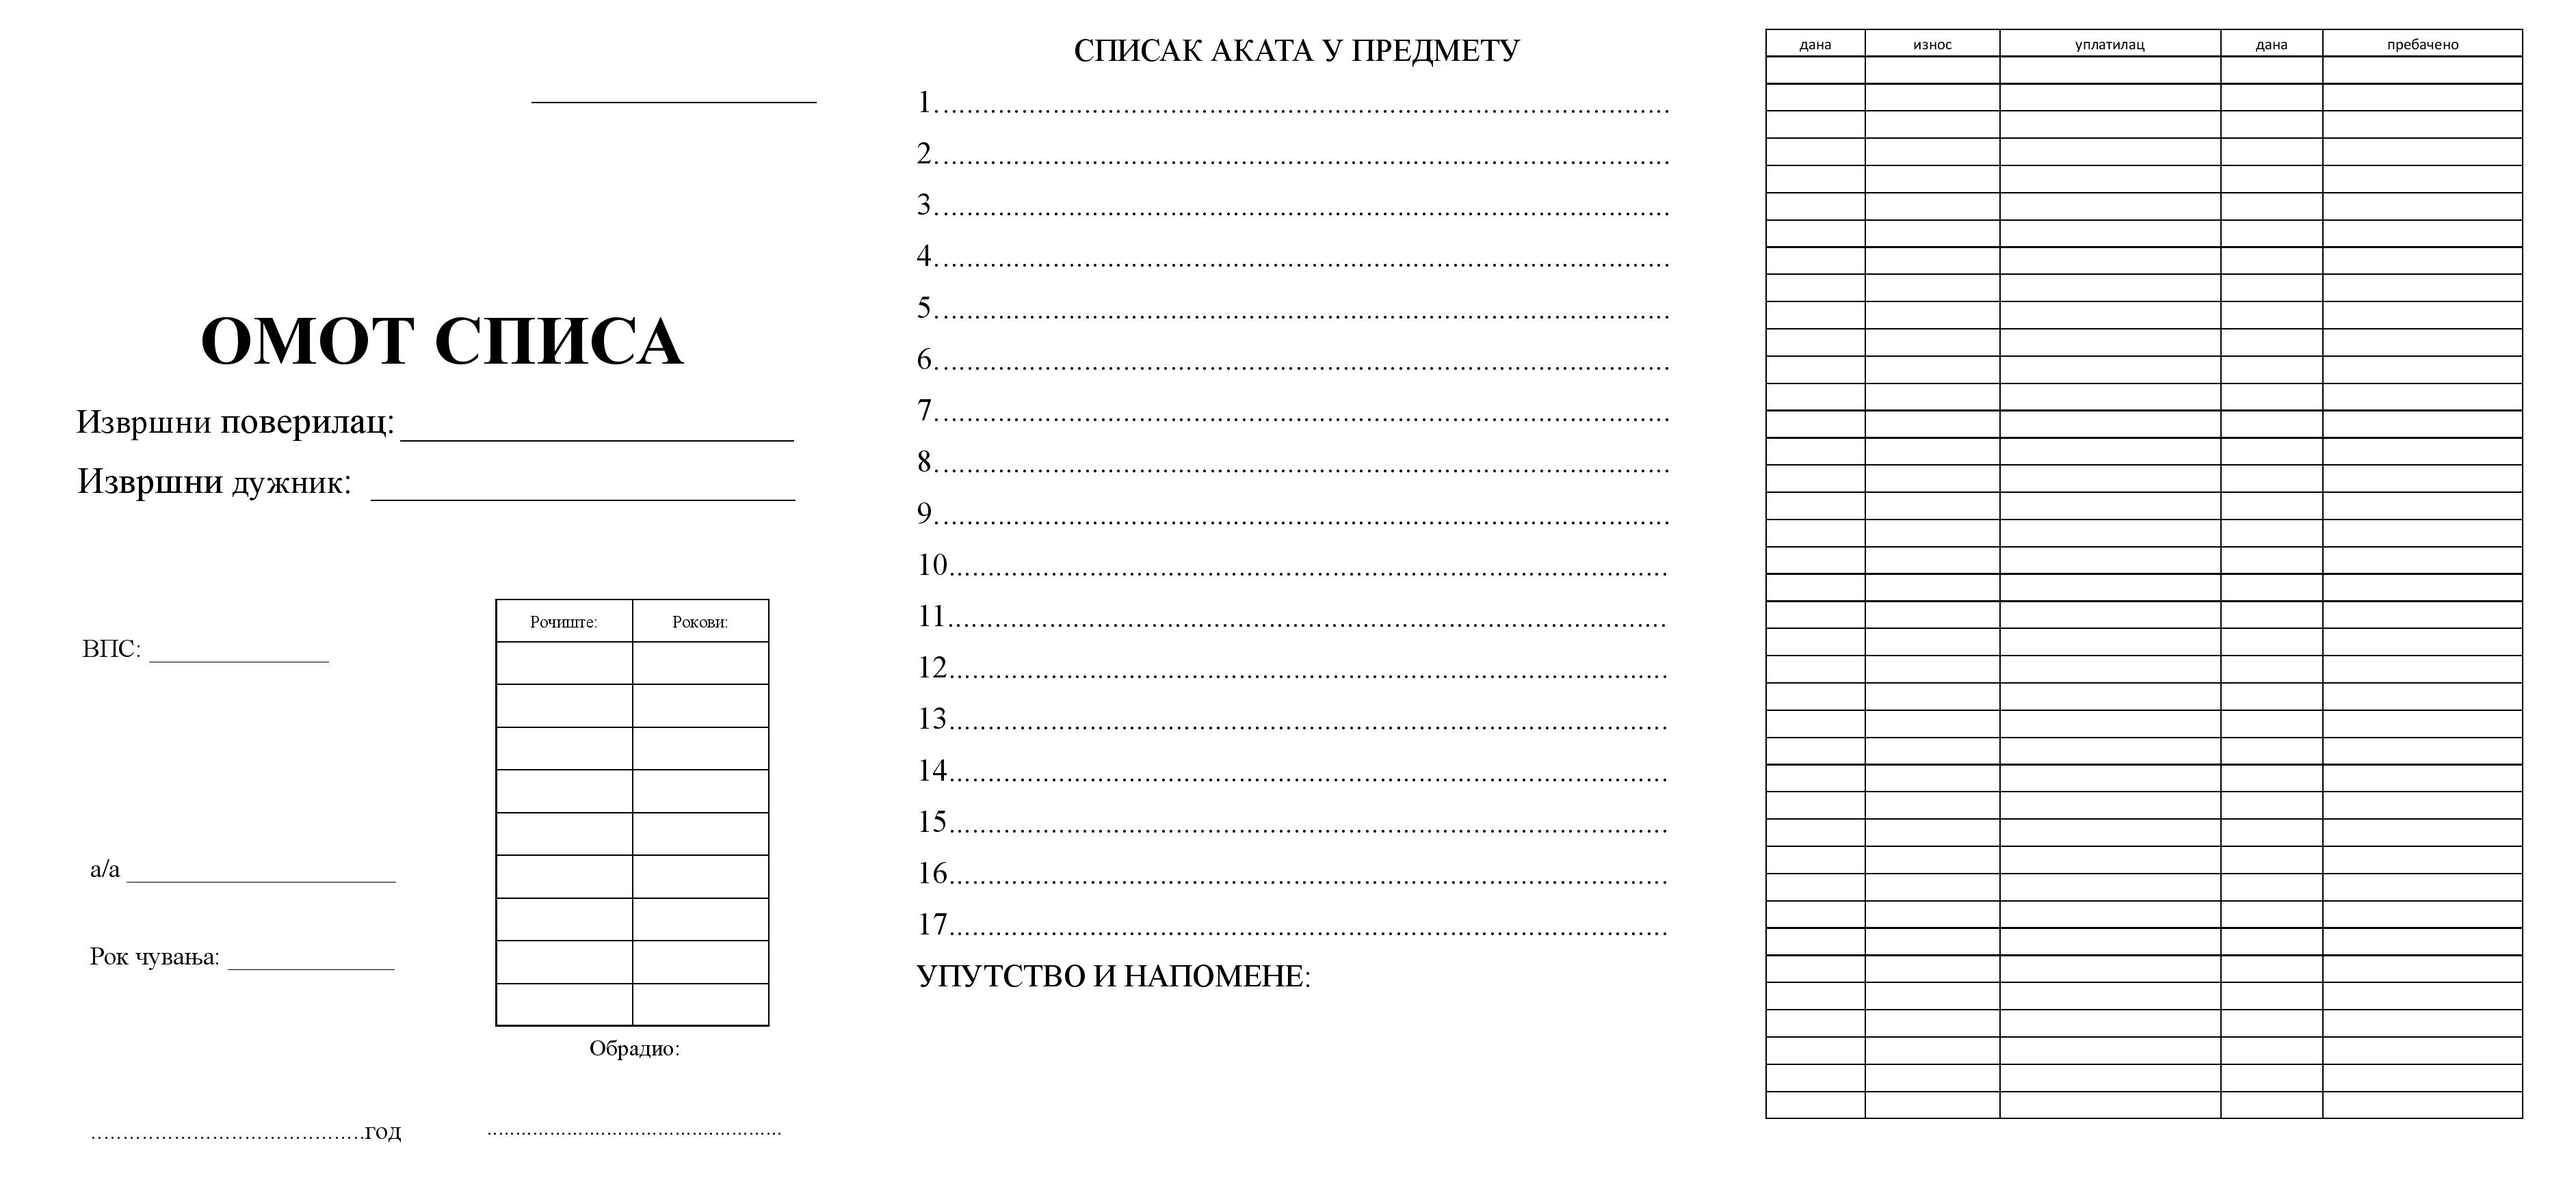
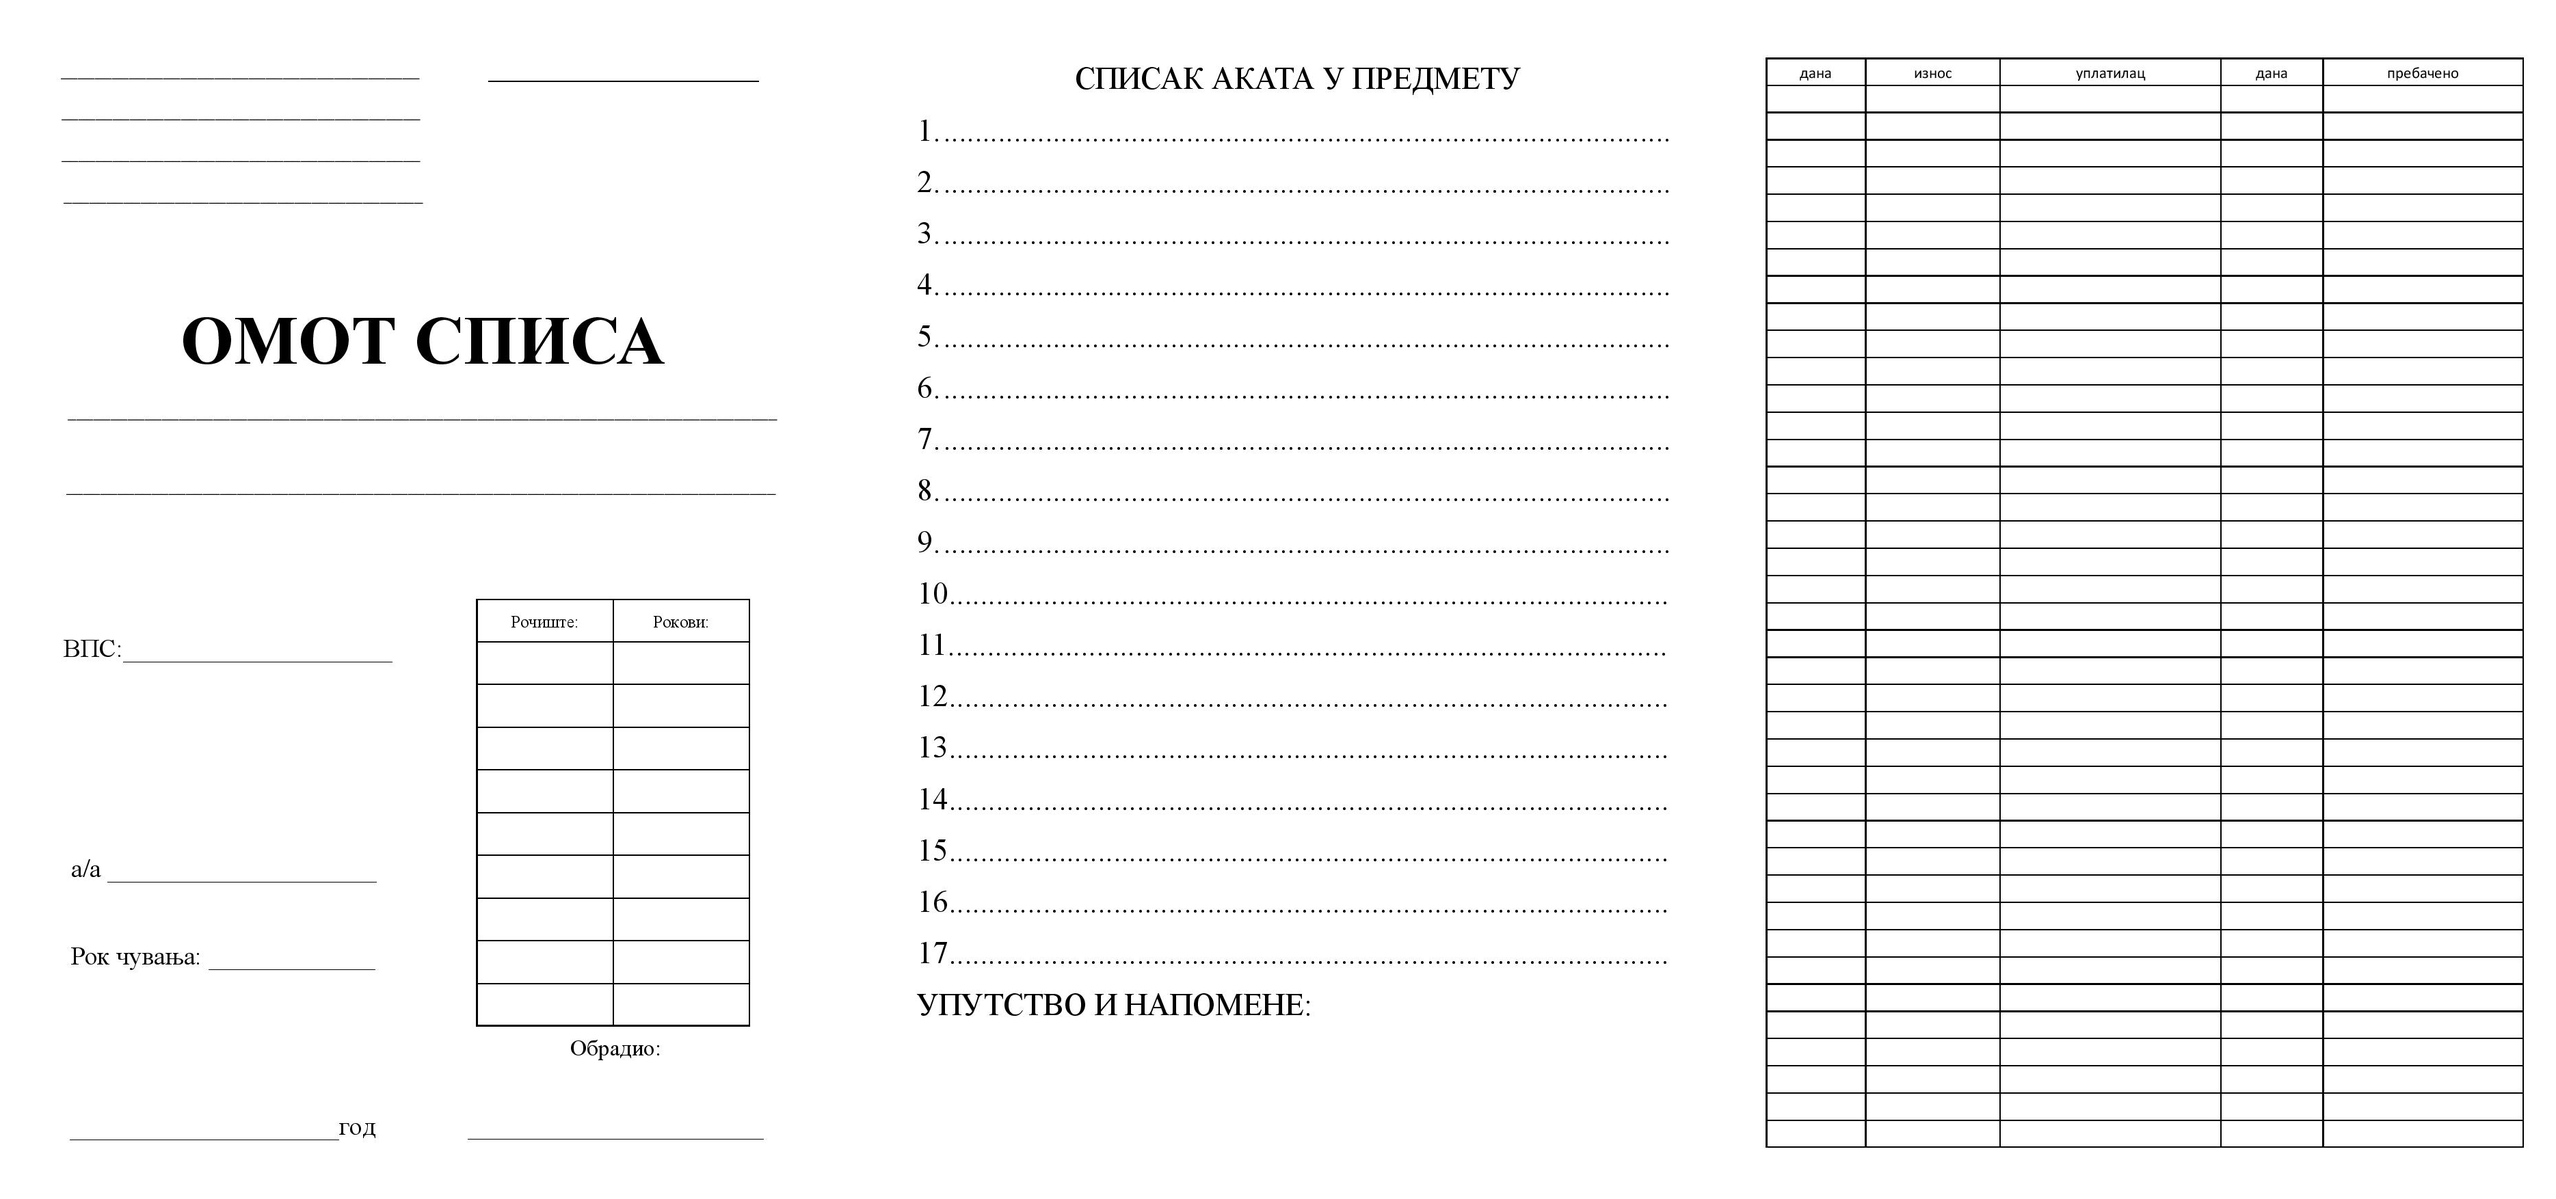
Change omot-spisa image

diff --git a/functions/createPicture.php b/functions/createPicture.php
@@ -162,8 +162,8 @@ require_once("stringFunctions.php");
 		case 'koverte-dostavnice-formulari/formulari-za-adresiranje':			
 			break;
 		case 'omot-spisa':
-			imagettftext($image, 32, 0, 100, 80, $black, $font_path, "РЕПУБЛИКА СРБИЈА");
-			imagettftext($image, 30, 0, 100, 130, $black, $font_path, $envelopeReciver);
+			imagettftext($image, 32, 0, 100, 100, $black, $font_path, "РЕПУБЛИКА СРБИЈА");
+			imagettftext($image, 30, 0, 100, 165, $black, $font_path, $envelopeReciver);
 			imagettftext($image, 30, 0, 100, 180, $black, $font_path, convertToCyrilic($_GET['nameLastname']));
 			imagettftext($image, 30, 0, 100, 230, $black, $font_path, convertToCyrilic($_GET['location']) . ", " . convertToCyrilic($_GET['address']));
 			break;

diff --git a/README.md b/README.md
@@ -24,7 +24,7 @@ Tile :rabbit:
 - [ ] Ukoliko korisnik nesto izmeni u sacuvanoj narudzbini i naruci opet, da li se updatuje sacuvana narudzbina ili se ubacuje nova?
 		Ukoliko se updatuje, sta se desava sa fajlom koji je bio u prvoj verziji sacuvane narudzbine kod stampanja, tj. da li 
 		se i on updatuje? (nestaje podatak o prethodnom)<--- !!!!
-- [] Da li treba delivery mail?
+- [ ] Da li treba delivery mail?
 - [ ] Brisanje narudzbine kod korisnika? Brisanje narudzbina? Kada?
 - [ ] Kod admina - opcija dodavanja admina (sql je napisan)?
 - [ ] Testiranje
